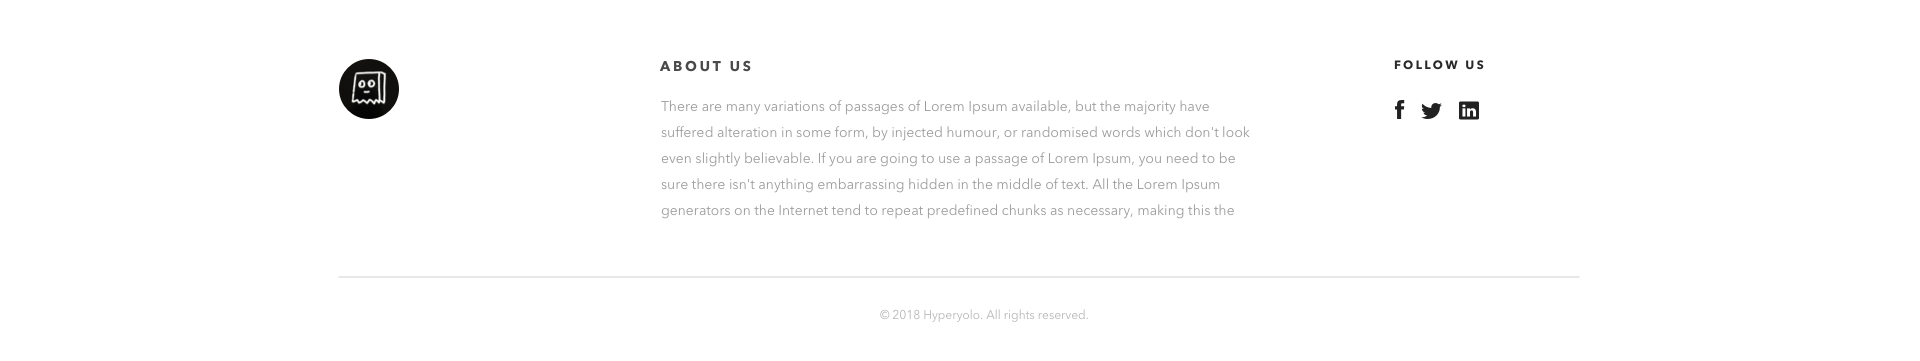
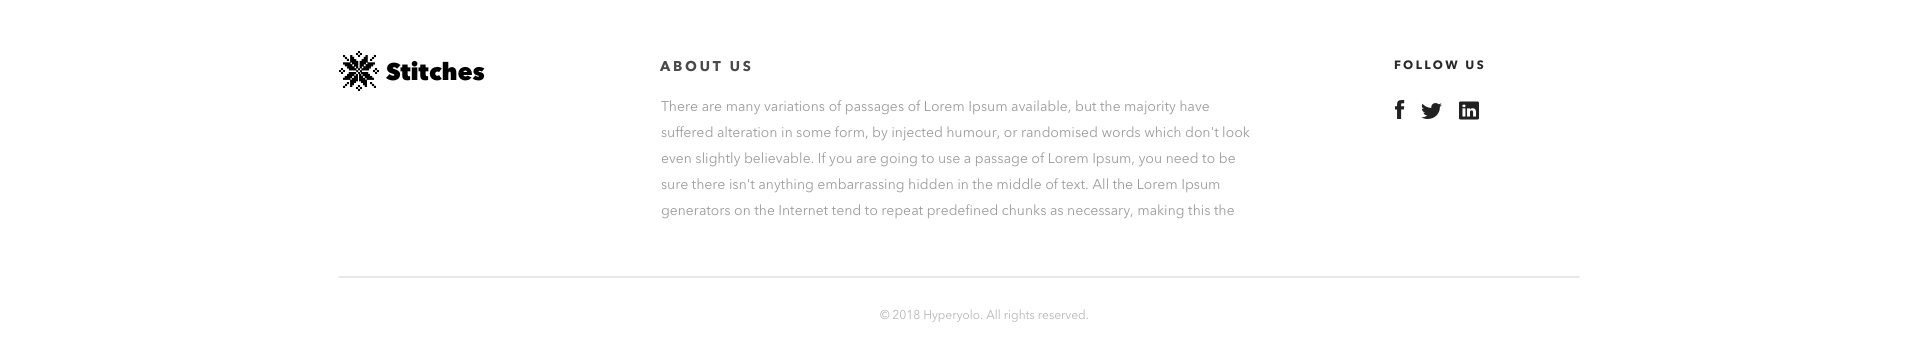
update footer

Changed region(s): [[0.1562, 0.1524, 0.25, 0.3352]]

diff --git a/stitches.html b/stitches.html
@@ -7,27 +7,19 @@
     <title>Stitches</title>
   </head>
   <body>
-    <form class="font-sans text-sm rounded w-full max-w-xs mx-auto my-8 px-8 pt-6 pb-8">
-      <div class="relative border rounded mb-4 shadow appearance-none label-floating">
-        <input class="w-full py-2 px-3 text-grey-darker leading-normal rounded" id="username" type="text" placeholder="Username">
-        <label class="absolute block text-grey-darker pin-t pin-l w-full px-3 py-2 leading-normal" for="username">
-          Username
-        </label>
-      </div>
-      <div class="relative border rounded mb-4 shadow appearance-none label-floating">
-        <input class="w-full py-2 px-3 text-grey-darker leading-normal rounded" id="password" type="password" placeholder="Password">
-        <label class="absolute block text-grey-darker pin-t pin-l w-full px-3 py-2 leading-normal" for="password">
-          Password
-        </label>
-      </div>
-      <div class="flex items-center justify-between">
-        <button class="bg-grey-darkest hover:bg-black text-white py-2 px-4 rounded" type="button">
-        Sign In
-        </button>
-        <a class="inline-block align-baseline text-grey hover:text-grey-darker" href="#">
-          Forgot Password?
-        </a>
-      </div>
-    </form>
+<footer class="font-sans bg-black text-white py-8 px-4">
+  <div class="mx-auto max-w-xl overflow-hidden flex justify-between items-center">
+    <ul class="text-sm text-grey-dark list-reset flex items-center">
+      <li> <a href="/" class="block mr-4 w-32">
+      <img src="./logo-white.png" class="" alt="logo">
+    </a></li>
+      <li><a href="#" class="inline-block py-2 px-3 text-grey hover:text-grey-light no-underline">Product</a></li>
+      <li><a href="#" class="inline-block py-2 px-3 text-grey hover:text-grey-light no-underline">Company</a></li>
+      <li><a href="#" class="inline-block py-2 px-3 text-grey hover:text-grey-light no-underline">FAQs</a></li>
+      <li><a href="#" class="inline-block py-2 px-3 text-grey hover:text-grey-light no-underline">About Us</a></li>
+    </ul>
+    <p class="inline-block py-2 px-3 text-grey-darker text-xs"> ©2018 Hyperyolo. All rights reserved.</p>
+  </div>
+</footer>
   </body>
 </html>

diff --git a/templates/footer-1.html b/templates/footer-1.html
@@ -1,1 +1,14 @@
-<footer></footer>
+<footer class="font-sans bg-black text-white py-8 px-4">
+  <div class="mx-auto max-w-xl overflow-hidden flex justify-between items-center">
+    <ul class="text-sm text-grey-dark list-reset flex items-center">
+      <li> <a href="/" class="block mr-4 w-32">
+      <img src="./logo-white.png" class="" alt="logo">
+    </a></li>
+      <li><a href="#" class="inline-block py-2 px-3 text-grey hover:text-grey-light no-underline">Product</a></li>
+      <li><a href="#" class="inline-block py-2 px-3 text-grey hover:text-grey-light no-underline">Company</a></li>
+      <li><a href="#" class="inline-block py-2 px-3 text-grey hover:text-grey-light no-underline">FAQs</a></li>
+      <li><a href="#" class="inline-block py-2 px-3 text-grey hover:text-grey-light no-underline">About Us</a></li>
+    </ul>
+    <p class="inline-block py-2 px-3 text-grey-darker text-xs"> ©2018 Hyperyolo. All rights reserved.</p>
+  </div>
+</footer>

diff --git a/templates/footer-2.html b/templates/footer-2.html
@@ -1,1 +1,14 @@
-<footer></footer>
+<footer class="font-sans bg-black text-white py-8 px-4">
+  <div class="mx-auto max-w-xl overflow-hidden flex justify-between items-center">
+    <ul class="text-sm text-grey-dark list-reset flex items-center">
+      <li> <a href="/" class="block mr-4 w-32">
+      <img src="./logo-white.png" class="" alt="logo">
+    </a></li>
+      <li><a href="#" class="inline-block py-2 px-3 text-grey hover:text-grey-light no-underline">Product</a></li>
+      <li><a href="#" class="inline-block py-2 px-3 text-grey hover:text-grey-light no-underline">Company</a></li>
+      <li><a href="#" class="inline-block py-2 px-3 text-grey hover:text-grey-light no-underline">FAQs</a></li>
+      <li><a href="#" class="inline-block py-2 px-3 text-grey hover:text-grey-light no-underline">About Us</a></li>
+    </ul>
+    <p class="inline-block py-2 px-3 text-grey-darker text-xs"> ©2018 Hyperyolo. All rights reserved.</p>
+  </div>
+</footer>
